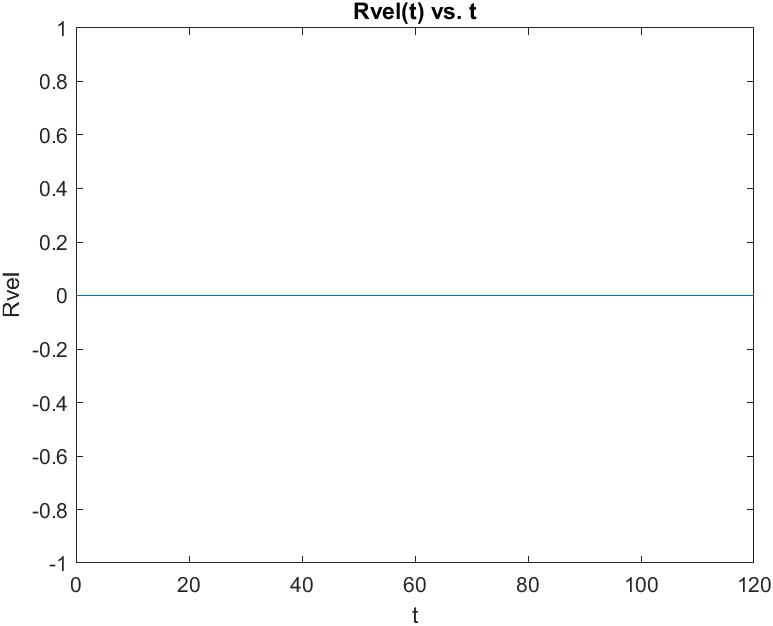
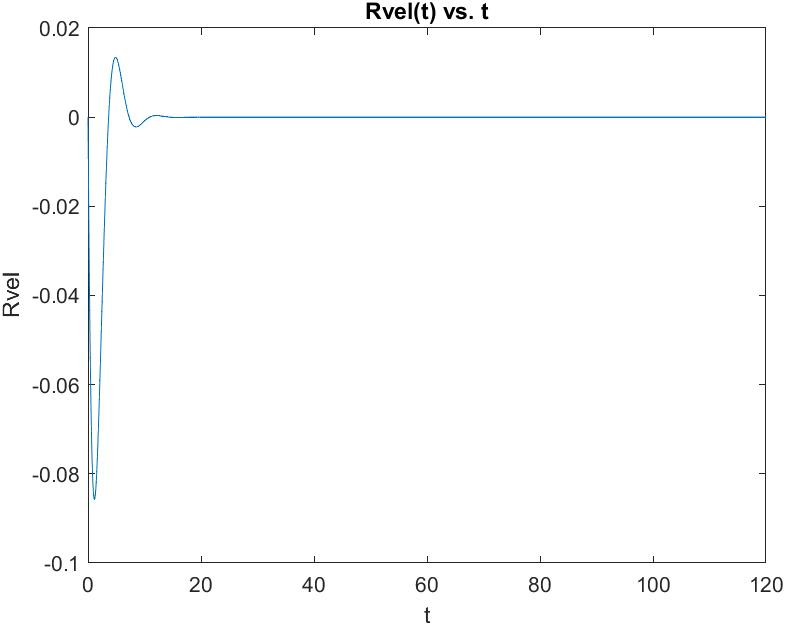
Fixed Initial Condition
phi, theta, and psi must be in radians

diff --git a/AERSP304_Proj2.m b/AERSP304_Proj2.m
@@ -29,7 +29,7 @@ ploter(t,d,'1')
 
 
 %Question 2
-init = [0,0,0,0,0,0,0,0,0,0,0,0] ;
+init = [0,0,0,0,1,0,10*pi/180,0,10*pi/180,0,10*pi/180,0] ;
 t = linspace(0,120,2400) ;
 [t,a] = ode45(@(t,d) Q2fun(t,d,I,[10,0,0,0,0,0,0,0]), t , init , options);
 
